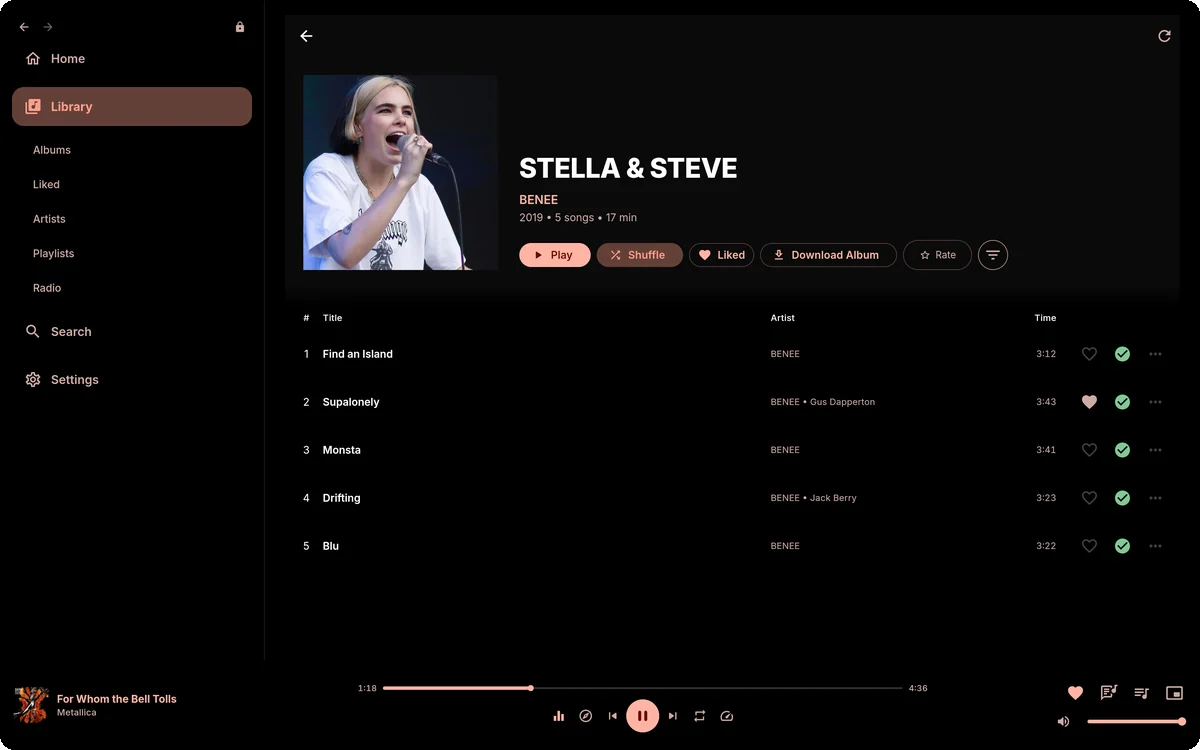
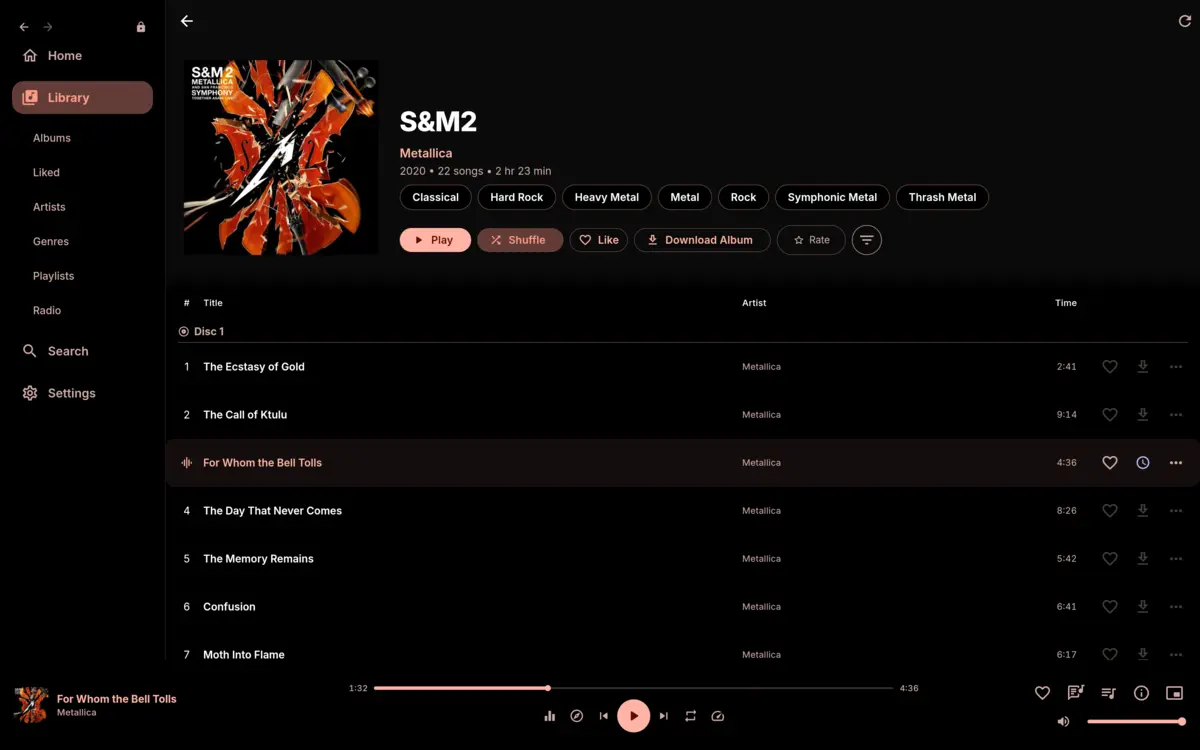
docs(readme): list iOS and macOS, refresh desktop screenshots

diff --git a/README.md b/README.md
@@ -9,7 +9,7 @@
 [![CI](https://img.shields.io/github/actions/workflow/status/Porthorion/Navis/ci.yml?branch=dev&style=flat-square&label=CI)](https://github.com/Porthorion/Navis/actions/workflows/ci.yml)
 [![Release](https://img.shields.io/github/v/release/Porthorion/Navis?style=flat-square&color=e8a598)](https://github.com/Porthorion/Navis/releases/latest)
 [![License: GPL v3+](https://img.shields.io/badge/license-GPL--3.0--or--later-blue?style=flat-square)](LICENSE)
-[![Platforms](https://img.shields.io/badge/platforms-Android%20%7C%20Windows%20%7C%20Linux-555?style=flat-square)](#download)
+[![Platforms](https://img.shields.io/badge/platforms-Android%20%7C%20iOS%20%7C%20Windows%20%7C%20macOS%20%7C%20Linux-555?style=flat-square)](#download)
 [![OpenSubsonic](https://img.shields.io/badge/API-OpenSubsonic%20%7C%20Subsonic-6f42c1?style=flat-square)](https://opensubsonic.netlify.app/)
 [![Stars](https://img.shields.io/github/stars/Porthorion/Navis?style=flat-square&color=f5c518)](https://github.com/Porthorion/Navis/stargazers)
 
